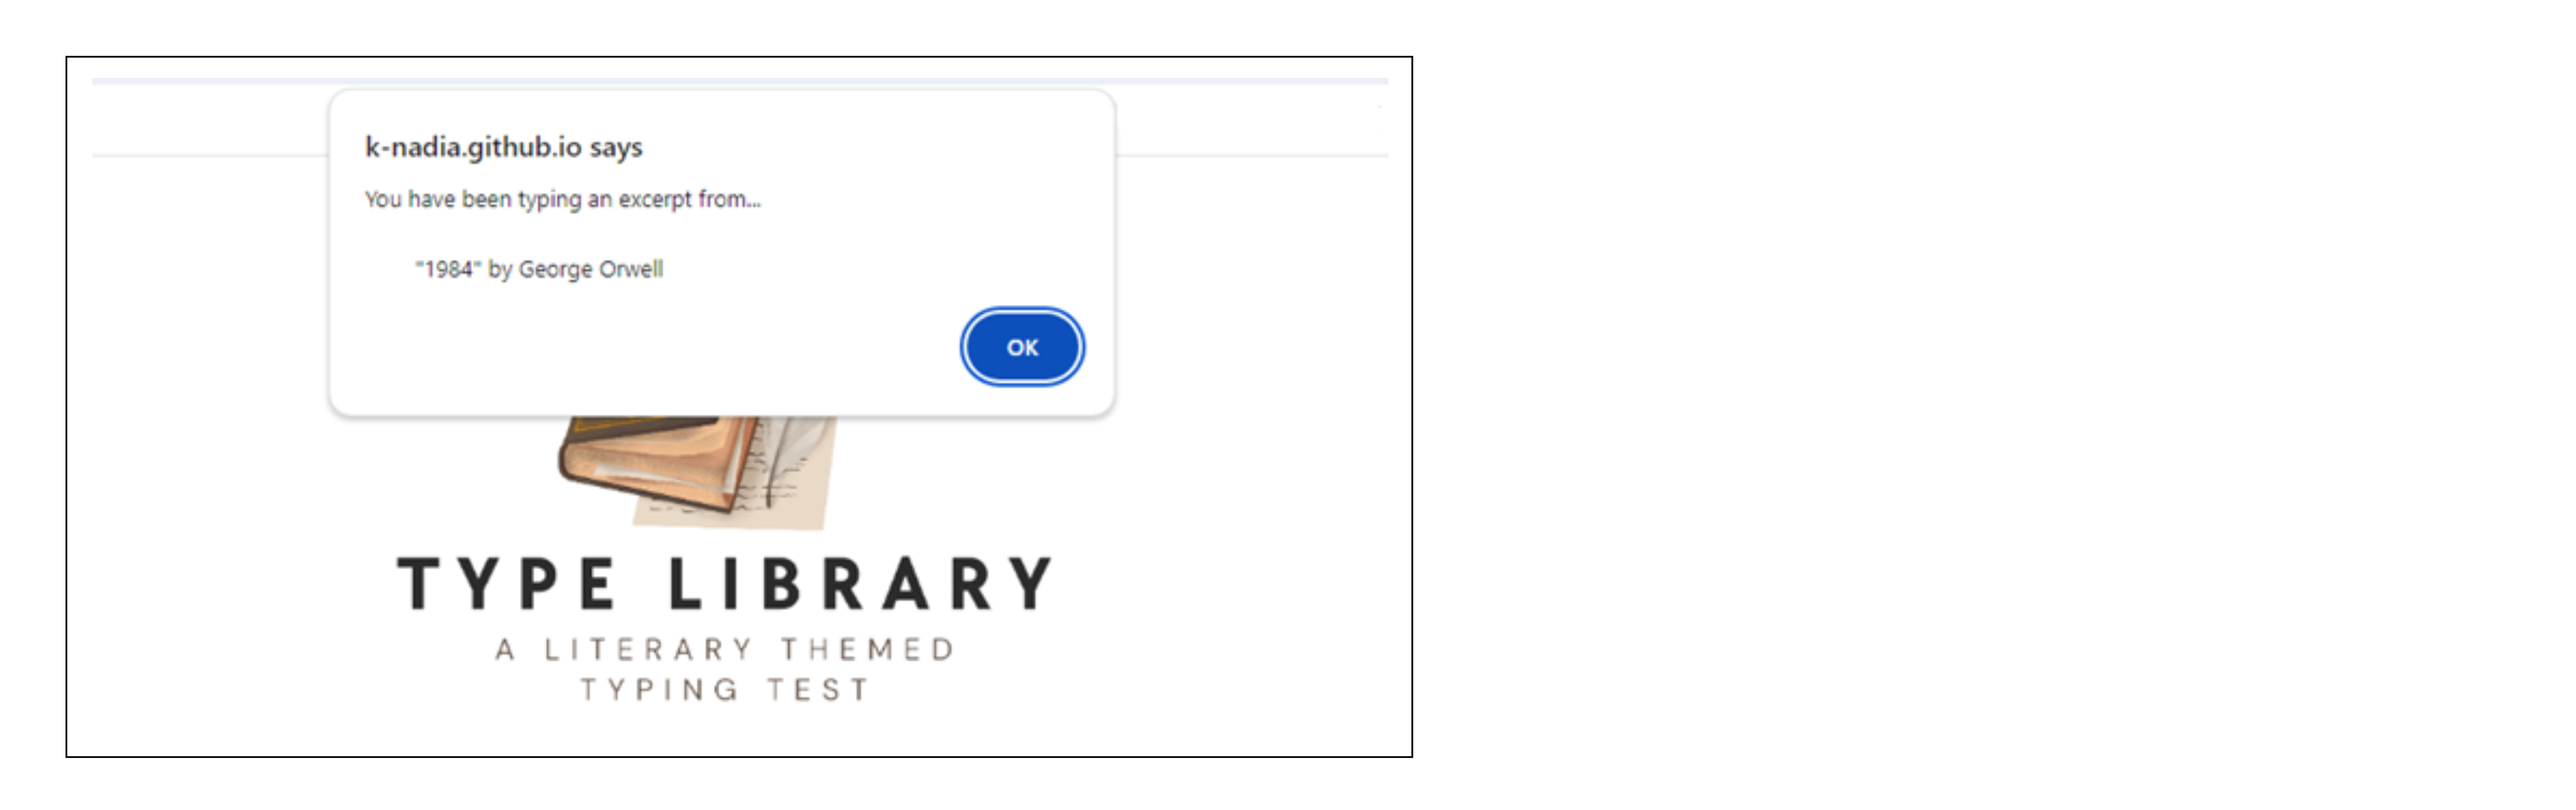
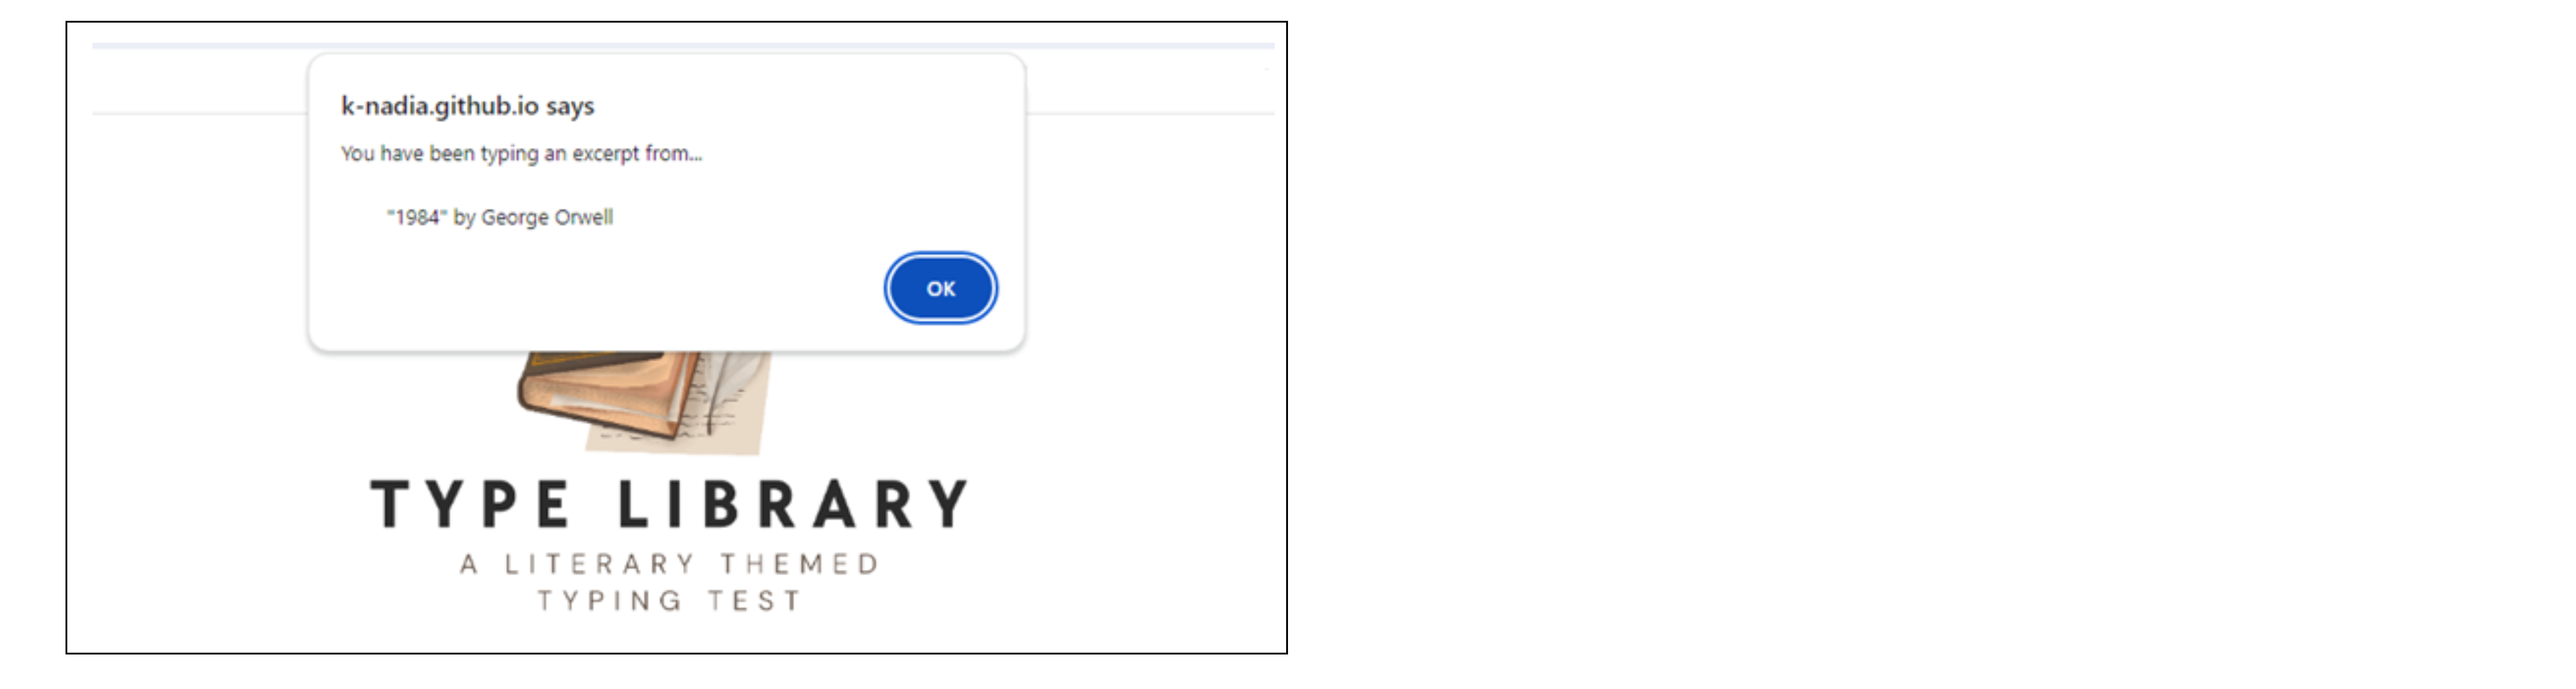
Replace book alert screenshot image, add to 'Features' section of README and detail the functionality and purpose of this feature

diff --git a/README.md b/README.md
@@ -158,6 +158,14 @@ As a developer:
 
 ## **FEATURES**
 
+### **Book Title & Author Alert**
+
+Once the user has completed the typing test and the timer has reached 00:00, an alert appears on screen informing the user of the novel title and author relating to the excerpt they have just written. This feature was a small but important addition to the project as it aligns with the purpose of the project to introduce users to classic literature as well as helping them to improve their typing skills.
+
+Once the user clicks 'x' to close the alert, the results calculation function is then triggered.
+
+![BookTitleAlertPopUp](assets/images/features/book-alert.png)
+
 ### **Features to Implement in the Future**
 
 Additional features I would like to implement to this project would be:
